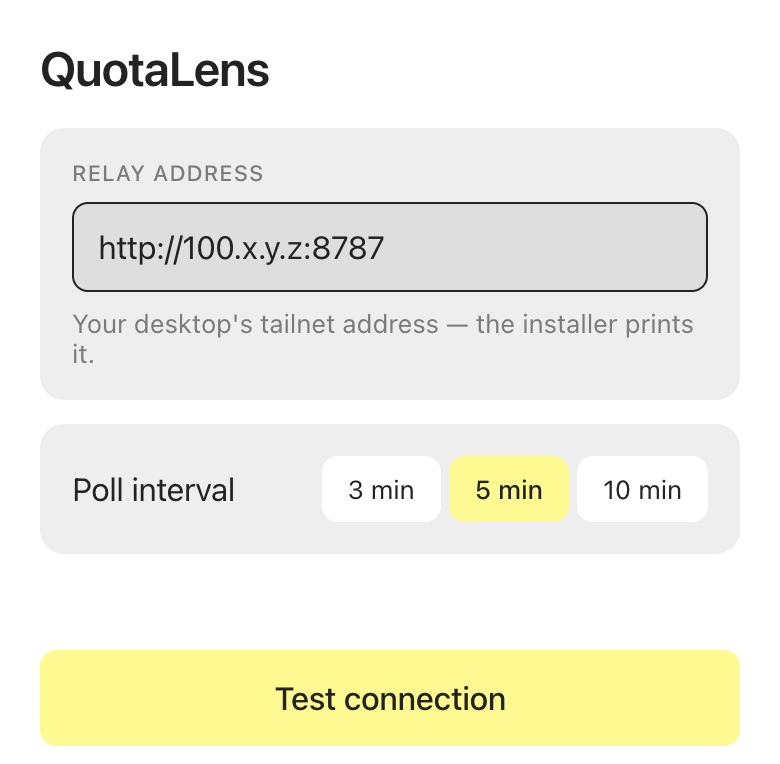
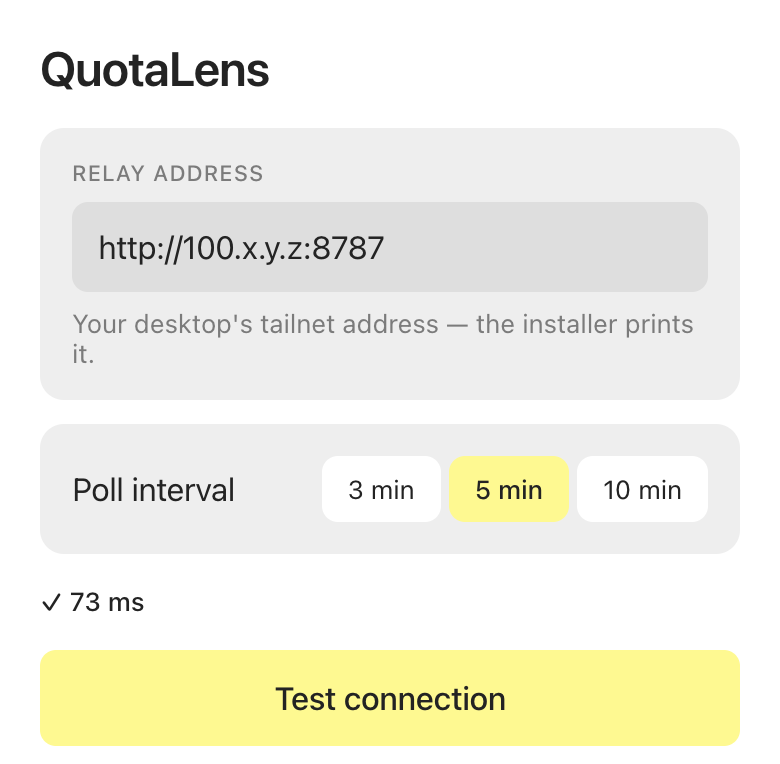
QuotaLens v0.3.1

diff --git a/README.md b/README.md
@@ -35,6 +35,8 @@ QuotaLens has one settings page inside the Even App. Paste the relay address the
 
 ![Settings page in the Even App: Relay address field, Poll interval (3 / 5 / 10 min), Test connection](docs/images/phone-settings.png)
 
+Demo render of the settings page with a placeholder address; the `✓ <ms>` row is what a successful test looks like, not a measurement.
+
 ## Requirements
 
 | Requirement | Supported setup |
